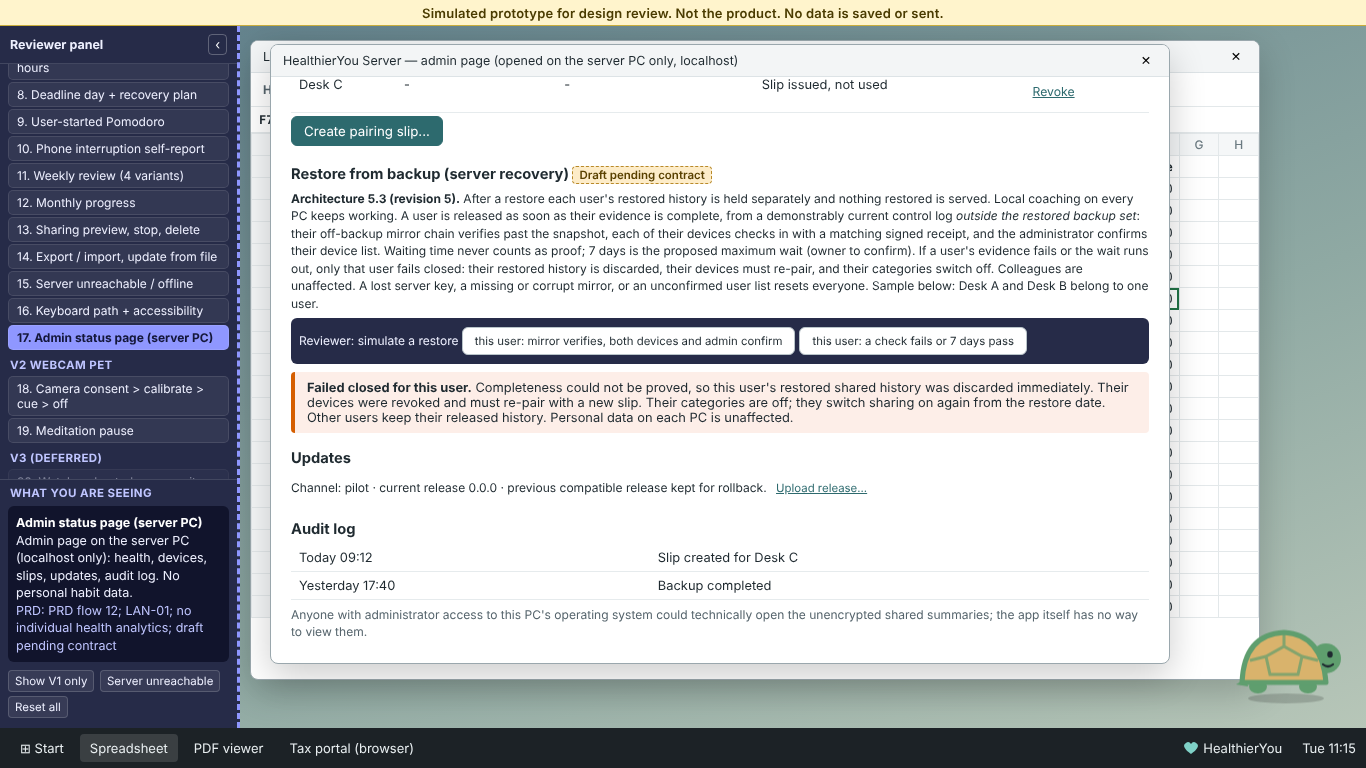
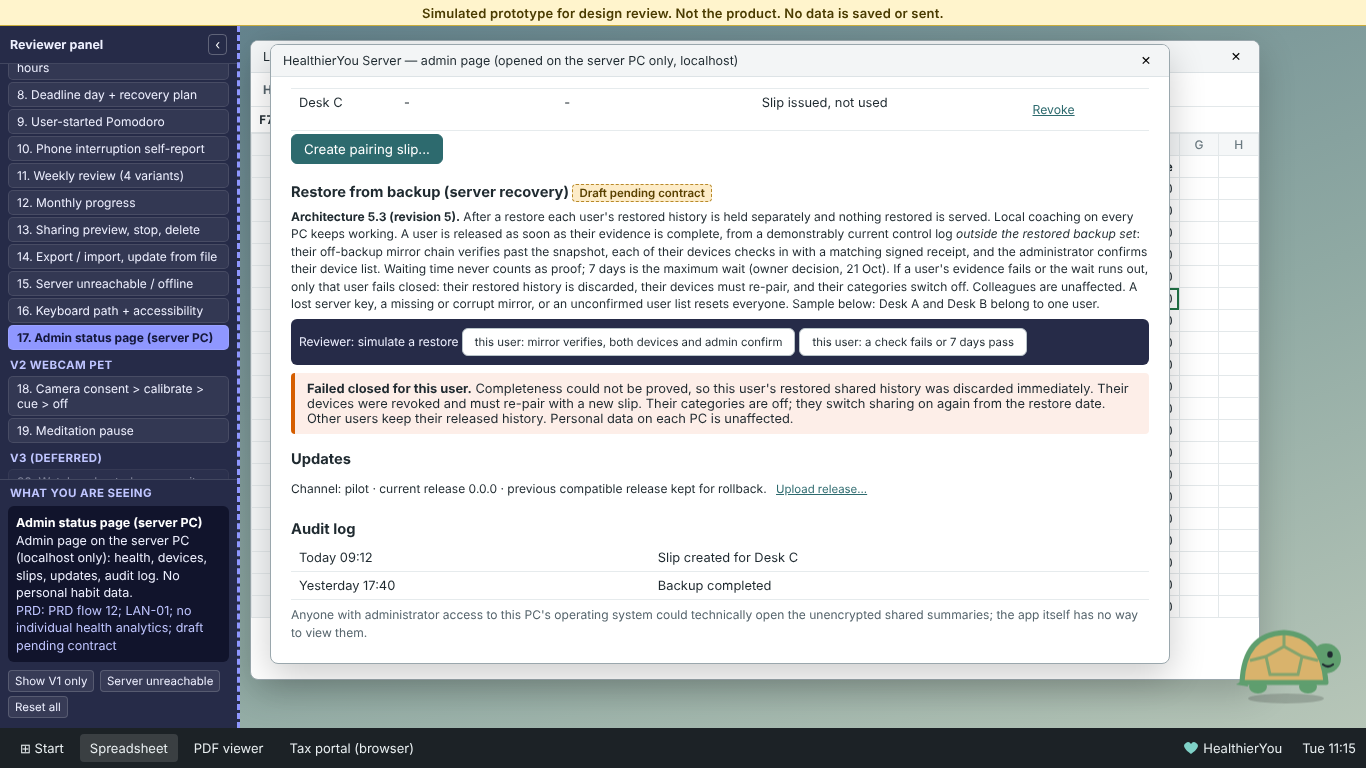
docs: prototype shows owner decision on server-restore rule
Claude-Session: https://claude.ai/code/session_01S4SDu6WPkLhv97iVu1GqDX

diff --git a/docs/prototype/index.html b/docs/prototype/index.html
@@ -950,7 +950,7 @@ function adminWin(slip){
     <h3>Devices</h3><table class="t"><tr><th>Alias</th><th>App version</th><th>Last seen</th><th>State</th><th></th></tr>${devs.map(d => `<tr><td>${d[0]}</td><td>${d[1]}</td><td>${d[2]}</td><td>${d[3]}</td><td>${btn('Revoke', 'adRevoke', d[0], 'link')}</td></tr>`).join('')}</table>
     ${btn('Create pairing slip...', 'adSlip', '', 'primary')}${slip ? `<div class="card"><b>Pairing slip for Desk C</b> <span class="small muted">(single use, expires in 24 h)</span><p class="mono small">hy1-officepc-8443-SAMPLEFINGERPRINTBASE32XXXXXXXXXXXXXXXXXXXXXXXXXXXXX-SAMPLESECRET0000</p><p class="small">Full SHA-256 fingerprint: in the slip above (authoritative; the app checks all of it). Auxiliary words, not the verification: <b>amber cedar lotus river maple quartz</b></p><p class="small muted">Sample values only. Copy for internal chat or print. ${btn('Copy', 'noop', '', 'link')}${btn('Print', 'noop', '', 'link')}</p></div>` : ''}
     <h3 id="restoreHead">Restore from backup (server recovery) ${DRAFT}</h3>
-    <p class="small"><b>Architecture 5.3 (revision 5).</b> After a restore each user's restored history is held separately and nothing restored is served. Local coaching on every PC keeps working. A user is released as soon as their evidence is complete, from a demonstrably current control log <i>outside the restored backup set</i>: their off-backup mirror chain verifies past the snapshot, each of their devices checks in with a matching signed receipt, and the administrator confirms their device list. Waiting time never counts as proof; 7 days is the proposed maximum wait (owner to confirm). If a user's evidence fails or the wait runs out, only that user fails closed: their restored history is discarded, their devices must re-pair, and their categories switch off. Colleagues are unaffected. A lost server key, a missing or corrupt mirror, or an unconfirmed user list resets everyone. Sample below: Desk A and Desk B belong to one user.</p>
+    <p class="small"><b>Architecture 5.3 (revision 5).</b> After a restore each user's restored history is held separately and nothing restored is served. Local coaching on every PC keeps working. A user is released as soon as their evidence is complete, from a demonstrably current control log <i>outside the restored backup set</i>: their off-backup mirror chain verifies past the snapshot, each of their devices checks in with a matching signed receipt, and the administrator confirms their device list. Waiting time never counts as proof; 7 days is the maximum wait (owner decision, 21 Oct). If a user's evidence fails or the wait runs out, only that user fails closed: their restored history is discarded, their devices must re-pair, and their categories switch off. Colleagues are unaffected. A lost server key, a missing or corrupt mirror, or an unconfirmed user list resets everyone. Sample below: Desk A and Desk B belong to one user.</p>
     <div class="sim" style="background:#262b48;color:#eef0ff;border-radius:6px;padding:6px 8px;font-size:12px">Reviewer: simulate a restore ${btn('this user: mirror verifies, both devices and admin confirm', 'adRestore', 'proved')}${btn('this user: a check fails or 7 days pass', 'adRestore', 'closed')}</div>
     ${S.restore === 'proved' ? `<div class="ok" id="restoreResult"><b>History released for this user.</b> The off-backup control log is shown to be current and complete by both devices' receipts and the administrator's confirmation, so every acknowledged deletion, switch-off and revocation was replayed before any upload or read was accepted.</div>` : ''}${S.restore === 'closed' ? `<div class="err" id="restoreResult"><b>Failed closed for this user.</b> Completeness could not be proved, so this user's restored shared history was discarded immediately. Their devices were revoked and must re-pair with a new slip. Their categories are off; they switch sharing on again from the restore date. Other users keep their released history. Personal data on each PC is unaffected.</div>` : ''}
     <h3>Updates</h3><p class="small">Channel: pilot &middot; current release 0.0.0 &middot; previous compatible release kept for rollback. ${btn('Upload release...', 'noop', '', 'link')}</p>

diff --git a/docs/Wireframes_V1_V2.md b/docs/Wireframes_V1_V2.md
@@ -303,7 +303,7 @@ Common states, which apply wherever relevant:
   - service status, last backup and database size;
   - devices (alias, version, last seen, state, Revoke);
   - Create pairing slip: shows a sample slip with the full fingerprint (52 characters) and secret (16 characters), single use and 24 h validity, and Copy or Print. The 6 words are labelled auxiliary, "not the verification";
-  - **Restore from backup (server recovery)**, labelled Draft: states the architecture 5.3 rule (revision 5). Restored history is held **per user** and released for a user as soon as a demonstrably current control log from outside the restored backup set proves it complete: that user's mirror chain verifies, each of their devices presents a matching signed receipt, and the administrator confirms their device list. 7 days is the proposed maximum wait; time never counts as proof. A failure resets only that user; a lost key, bad mirror or unconfirmed user list resets everyone. Local coaching keeps working during the hold. User PCs' copies are never used to release it. Otherwise the server **fails closed**: restored shared history is discarded at once, that user's devices are revoked and must re-pair, and that user's categories are off; colleagues are unaffected. The reviewer strip simulates both outcomes. The fail-closed result shows the devices as "Revoked: must re-pair", and the Sharing tab shows a banner saying so;
+  - **Restore from backup (server recovery)**, labelled Draft: states the architecture 5.3 rule (revision 5). Restored history is held **per user** and released for a user as soon as a demonstrably current control log from outside the restored backup set proves it complete: that user's mirror chain verifies, each of their devices presents a matching signed receipt, and the administrator confirms their device list. 7 days is the maximum wait (owner decision, 21 Oct); time never counts as proof. A failure resets only that user; a lost key, bad mirror or unconfirmed user list resets everyone. Local coaching keeps working during the hold. User PCs' copies are never used to release it. Otherwise the server **fails closed**: restored shared history is discarded at once, that user's devices are revoked and must re-pair, and that user's categories are off; colleagues are unaffected. The reviewer strip simulates both outcomes. The fail-closed result shows the devices as "Revoked: must re-pair", and the Sharing tab shows a banner saying so;
   - updates (channel, current release, previous release kept);
   - audit log;
   - the operating-system access disclosure.
@@ -480,7 +480,7 @@ Further flows in the prototype:
 10. **Posture cue wording:** name the direction ("leaning further forward") or stay neutral? *Proposed default, owner to confirm:* neutral, "Your position has changed from your calibration. Would you like a short movement break?" Directional detail only after the detector passes a quality gate in the desk test.
 11. **Water wording at the goal:** "Your logging goal is reached; hydration reminders are paused", with manual logging still available. Confirm the wording.
 12. **Pace guide:** the prototype spreads the user's own goal evenly over the user's own work hours and calls a user "behind" only when the logged amount is at least 100 ml under the amount expected by now. Confirm this sample rule, or choose another.
-13. **Server recovery wording (Draft):** the recovery rule (release restored history only on proof from a surviving control log outside the restored backup set; otherwise fail closed) is in architecture 5.3 revision 5 (per-user isolation). The 7-day maximum wait, and per-user versus all-user reset, are for the owner to confirm (architecture Q9).
+13. **Server recovery wording (Draft):** the recovery rule (release restored history only on proof from a surviving control log outside the restored backup set; otherwise fail closed) is in architecture 5.3 revision 5 (per-user isolation). The owner chose per-user reset with a 7-day maximum wait on 21 Oct (architecture Q9).
 
 ## 9. Prototype notes and verification
 
